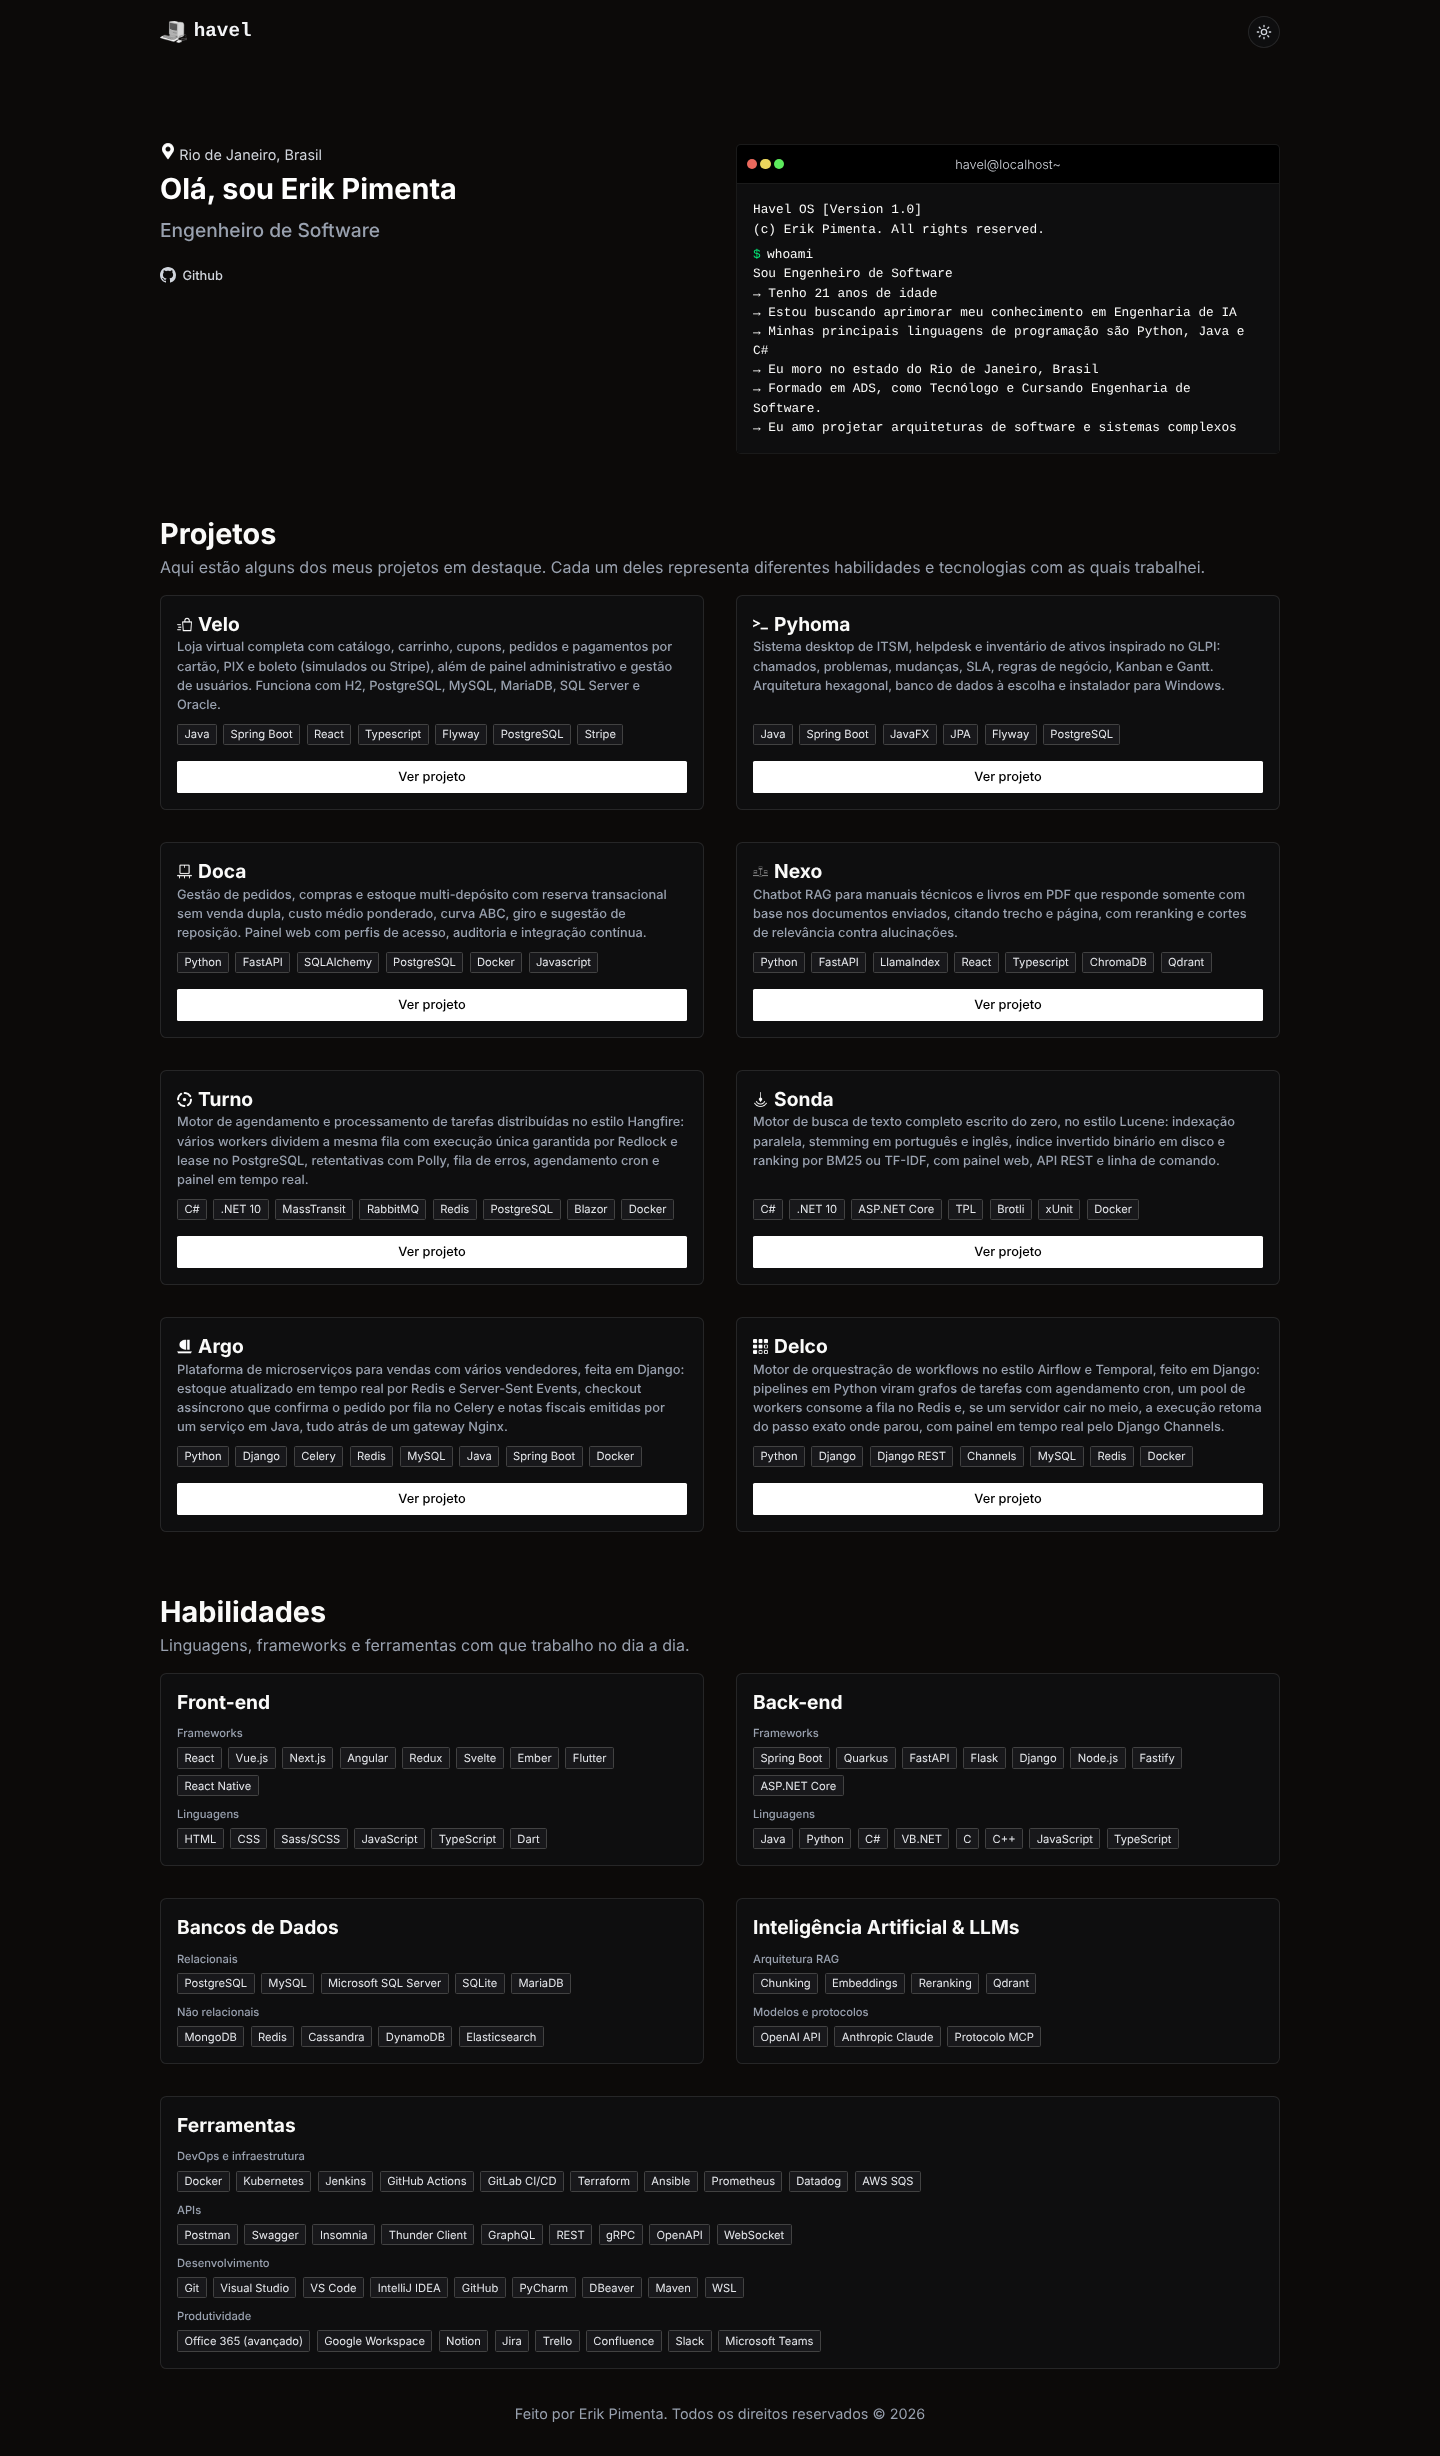
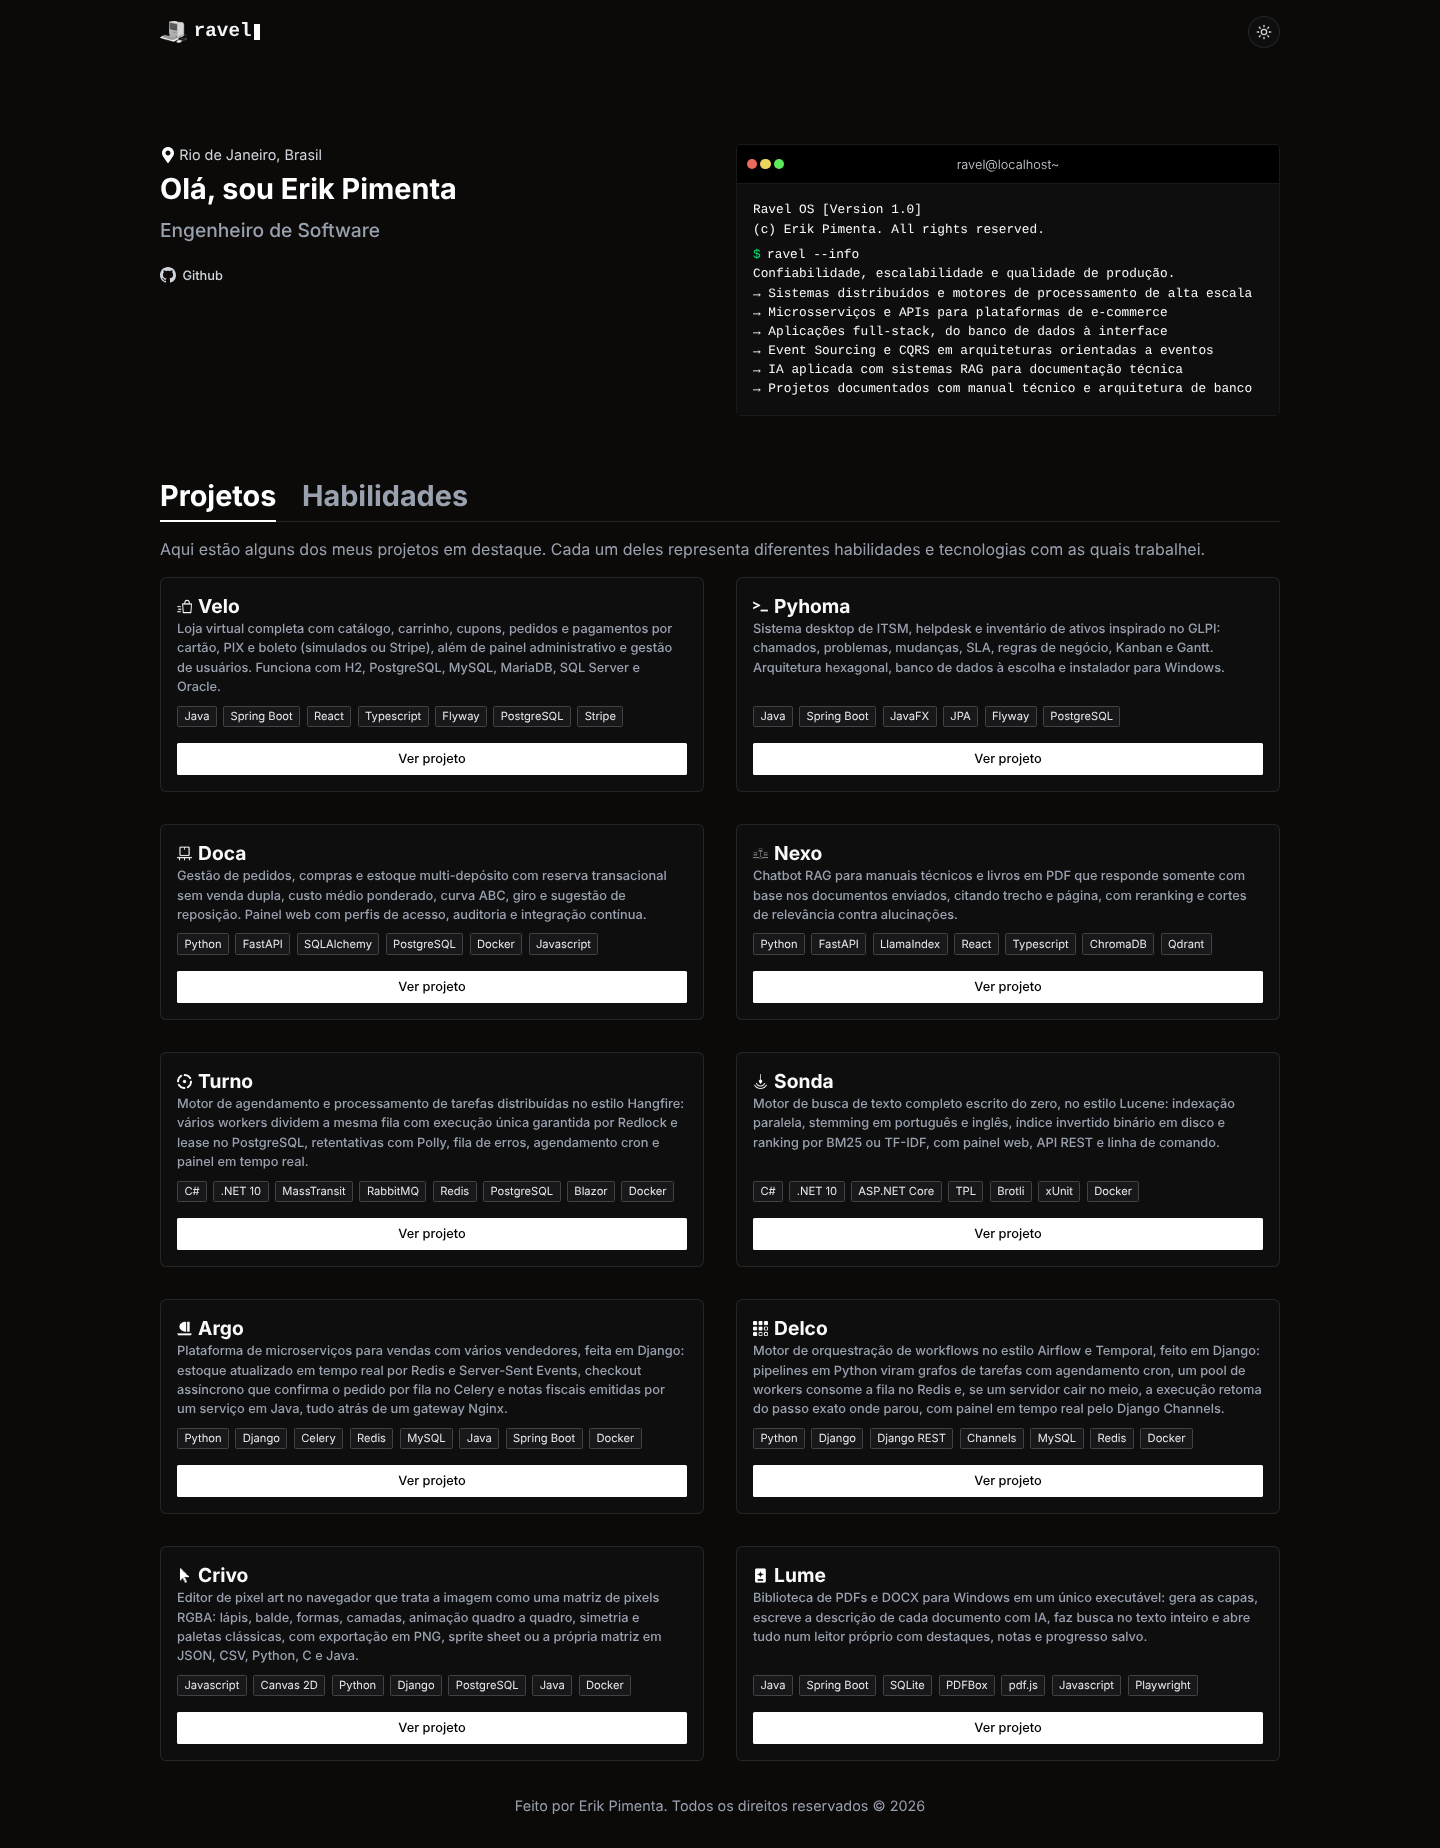
Atualiza prints e README

diff --git a/README.md b/README.md
@@ -16,13 +16,13 @@ HTML5 · CSS3 · JavaScript (ES6+) · Responsivo · Zero dependências
 ---
 
 <p align="center">
-  <img src="assets/preview-portfolio.png?v=9" alt="Prévia do portfólio">
+  <img src="assets/preview-portfolio.png?v=10" alt="Prévia do portfólio">
 </p>
 
-<p align="center"><b>Tema claro</b></p>
+<p align="center"><b>Tema claro, na aba Habilidades</b></p>
 
 <p align="center">
-  <img src="assets/preview-portfolio-claro.png?v=8" alt="Prévia do portfólio no tema claro">
+  <img src="assets/preview-portfolio-claro.png?v=9" alt="Prévia do portfólio no tema claro, na aba Habilidades">
 </p>
 
 ## O que tem na página
